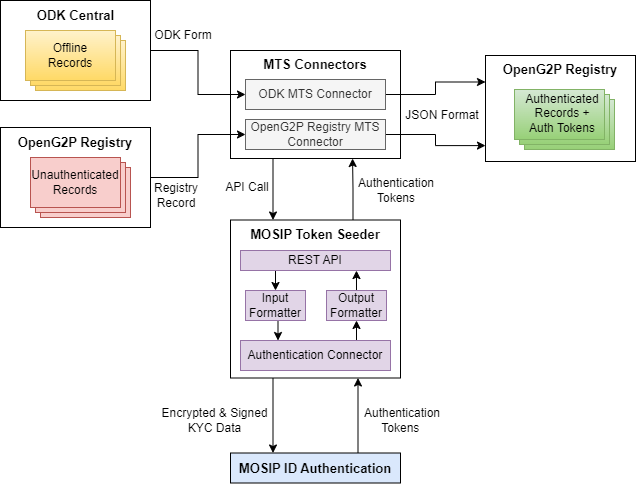
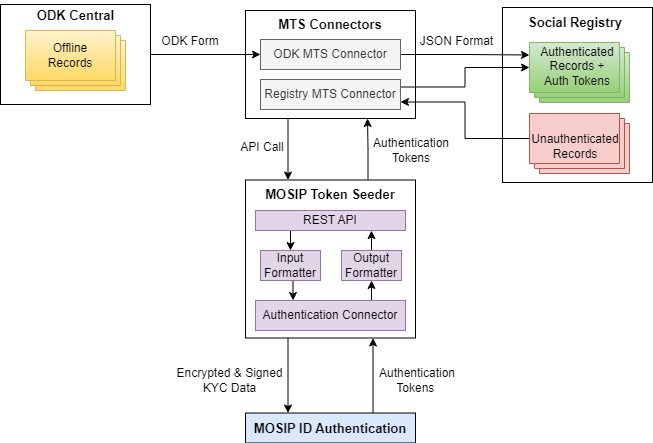
GITBOOK-577: ID Verification

diff --git a/social-registry/features/id-verification.md b/social-registry/features/id-verification.md
@@ -14,9 +14,19 @@ layout:
 
 # ID Verification
 
-* Verify ID information at the backend by connecting to APIs of the ID system (using [MTS connector](https://docs.mosip.io/1.2.0/integrations/mosip-token-seeder/mts-odk-importer))
-* Bulk ID verification
-* Tokenize the ID and populate it in Social Registry
+Social Registry with MOSIP Token Seeder (MTS) uses MTS Connector to authenticate registrants, who are registered using the ODK Collect App. The Unique ID Number (UIN) and demographic details provided by registrants are verified by calling APIs of the [MOSIP ID Authentication](https://docs.mosip.io/1.2.0/id-authentication) (IDA) system. The MOSIP IDA responds with an Authentication Token upon successful verification. MTS is a standalone service offered by MOSIP.&#x20;
+
+MTS Connectors can take inputs from both ODK Central and Social Registry. Since one MTS Connector takes only one type of input, separate MTS connectors are required for ODK Central and Social Registry.
+
+A high-level representation of the interactions between different components during authentication is shown below:
+
+<figure><img src="../../.gitbook/assets/authentication-using-mts.png" alt=""><figcaption></figcaption></figure>
+
+## Functionality
+
+* Verify ID information at the backend by connecting to APIs of the ID system (using [MTS connector](https://docs.mosip.io/1.2.0/integrations/mosip-token-seeder/mts-odk-importer)).
+* Bulk ID verification.
+* Tokenize the ID and populate it in Social Registry.
 
 {% hint style="info" %}
 **Is ID number by itself considered Personally Identifiable Information (PII**) ?
